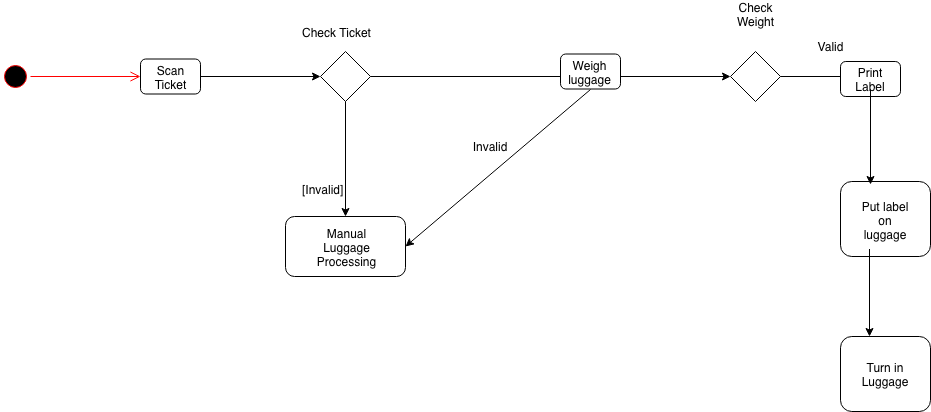
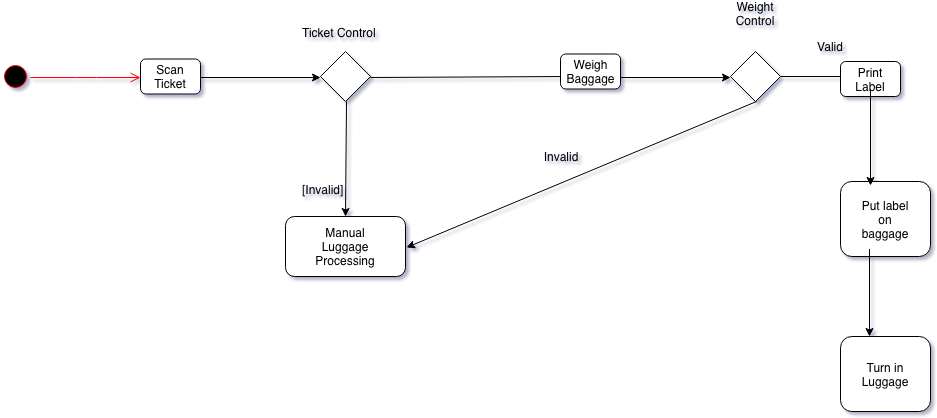
finished stubs

diff --git a/Upp1/Inlamning1/ControlMachine.py b/Upp1/Inlamning1/ControlMachine.py
@@ -1,0 +1,42 @@
+from Ticket import Ticket
+from Scale import Scale
+
+
+class ControlMachine():
+    """ Blueprint for the Control Machine at the airport """
+
+    def __init__(self):
+        """ Not used """
+        pass
+
+    def checkWeight(self, weightLuggage):
+        """ Checks the weight of the luggage, returns True if it passes
+            ,returns False if it fails
+        """
+        pass
+
+    def checkTicket(self, ticket):
+        """ Checks the validility of the ticket, if the ticket is invalid, refer to the manual checkout
+            if the ticket is valid the users luggage gets weighed
+            if the weight is invalid, refer to manual checkout
+            else create and print the label for the luggage
+        """
+
+        if ticket == "Valid":
+            if self.checkWeight(123) == True:
+                self.createLabel()
+                self.printLabel()
+            else:
+                self.referToManualCheckout()
+        else:
+            self.referToManualCheckout()
+        
+    def referToManualCheckout(self):
+        """ Tells the user to go to the manual checkout """
+        pass
+    def createLabel(self):
+        """ Creates the Label """
+        pass
+    def printLabel(self):
+        """ prints the label """
+        pass

diff --git a/Upp1/Inlamning1/Traveller.py b/Upp1/Inlamning1/Traveller.py
@@ -1,15 +1,19 @@
+from Ticket import Ticket
+from Luggage import Luggage
+
 class Traveller():
     """ Creates the blueprint for a traveller """
-    def __init__(self, name, age, numBags):
+    def __init__(self, name, age):
         """ Creates a new traveller object """
         self.name = name
         self.age = age
-        self.numBags = numBags
+        self.ticket = Ticket(True, 123)
+        self.luggage = Luggage(20, 10, 10)
 
-    def putLuggageOnScale(self):
+    def putLuggageOnScale(self, luggage):
         """ The traveller puts the luggage on the scale """
         pass
-    def scanTicket(self):
+    def scanTicket(self, ticket):
         """ The user scans their ticket """
         pass
         

diff --git a/Upp1/Inlamning1/BagLabel.py b/Upp1/Inlamning1/BagLabel.py
@@ -1,12 +1,12 @@
-import Luggage from Luggage
+from Luggage import Luggage
 
-class Label():
+class BagLabel():
     """ Creates the blueprint for a label """
     def __init__(self, id, destination):
         """ Creates the Label """
         self.id = id
         self.destination = destination
 
-    def attachLabelOnBag(Luggage):
+    def attachLabelOnLuggage(self, Luggage):
         """ Attaches the label onto the bag """
         pass

diff --git a/Upp1/Inlamning1/Scale.py b/Upp1/Inlamning1/Scale.py
@@ -1,0 +1,13 @@
+from Luggage import Luggage
+
+class Scale():
+    """ A blueprint for a scale """
+    def __init__(self):
+        """ Not used """
+
+    def sendWeight(self, weight):
+        """ Sends the weight to the controlmachine """
+        pass
+    def weightLuggage(self, luggage):
+        """ Weighs the luggage and returns the weight as an float """
+        pass
